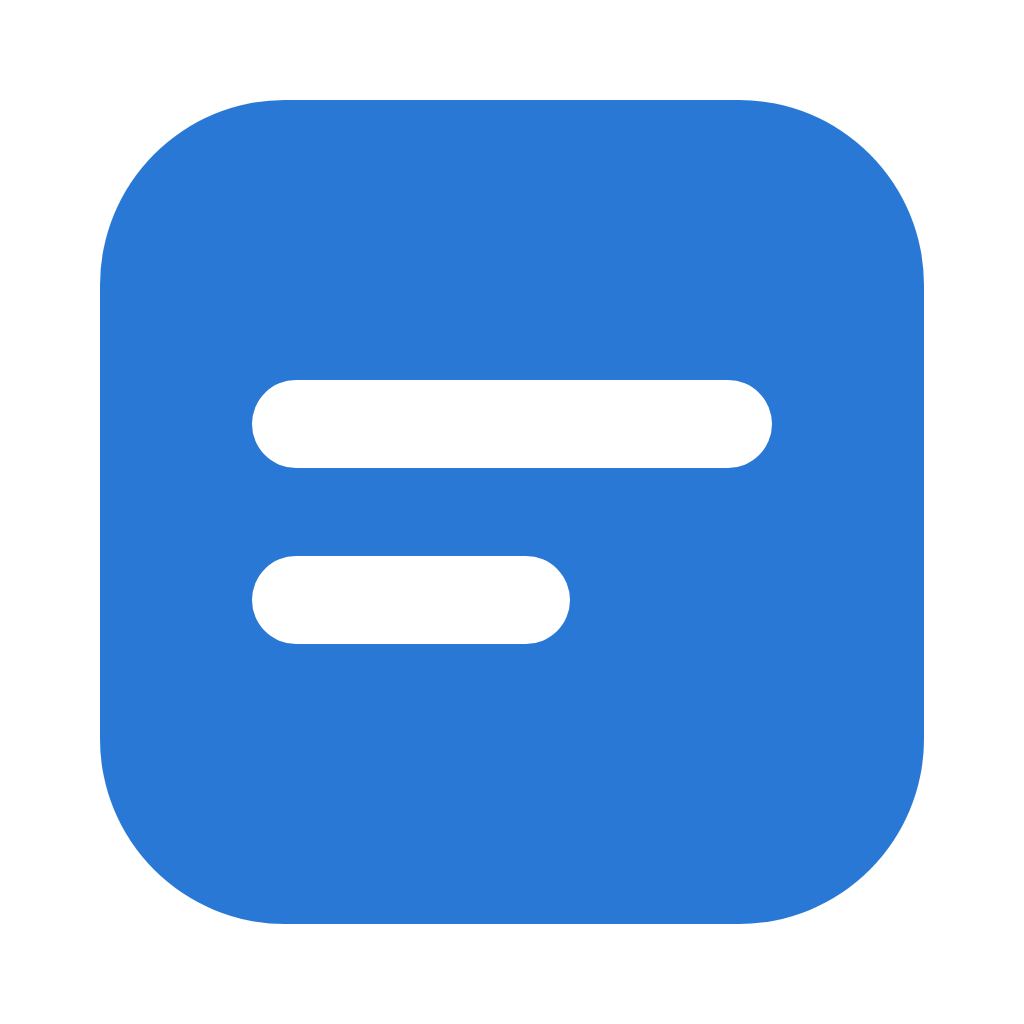
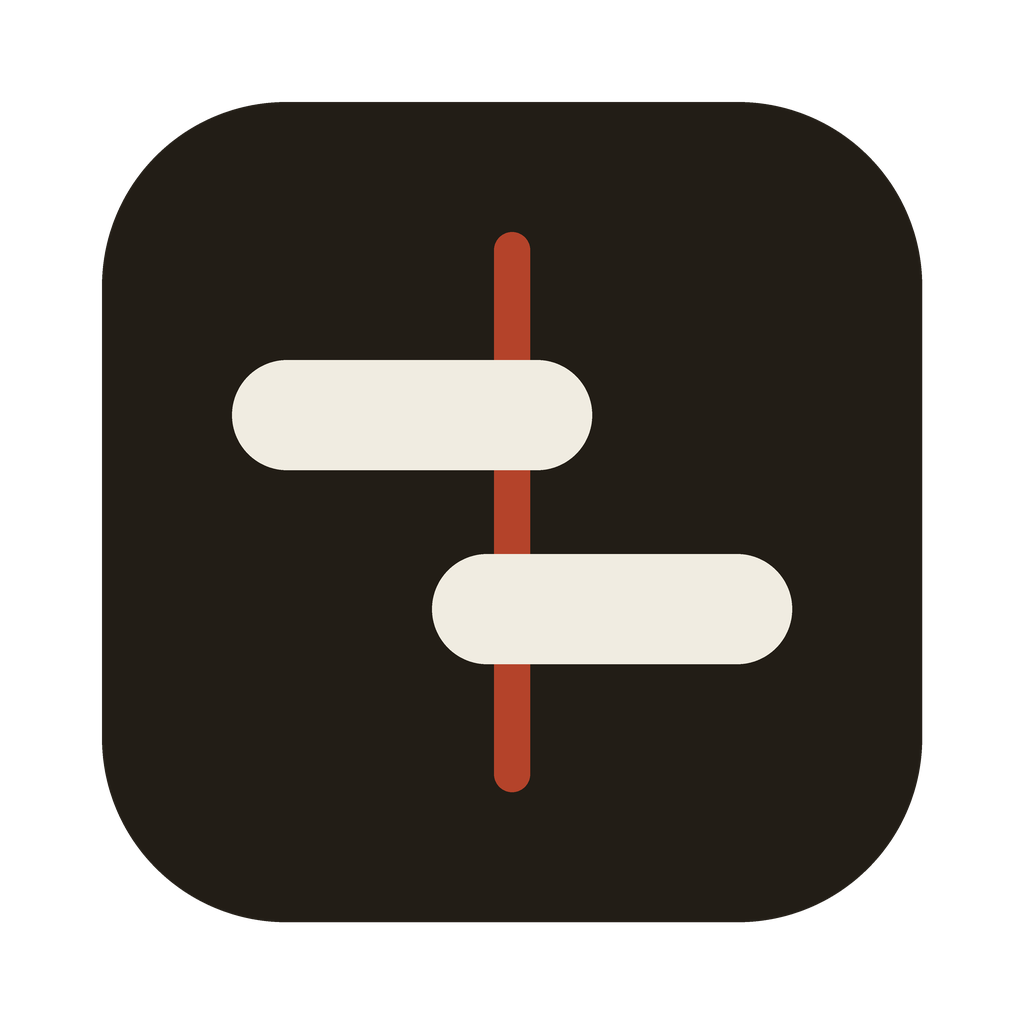
feat(desktop): carry the design system into the window and installer
The window opens on the design system's page ground instead of white, and
follows nativeTheme so the ground stays right when the system flips between
Daylight and Lamplight. On macOS the title bar is hidden and the app's own top
bar absorbs the traffic-light inset, which is what the system's app-patterns
guidance already specified; the bar is the drag handle and its controls stay
clickable.

The installer icon is redrawn from the Bureau mark: two offset bars crossed by
the shared time axis, in ink, paper and the one accent. It replaces the blue
placeholder and is used for the dmg, the icns and the NSIS installer.

diff --git a/src/desktop/main.ts b/src/desktop/main.ts
@@ -1,4 +1,4 @@
-import { app, BrowserWindow, ipcMain, safeStorage, shell } from 'electron';
+import { app, BrowserWindow, ipcMain, nativeTheme, safeStorage, shell } from 'electron';
 import electronUpdater from 'electron-updater';
 import { join } from 'node:path';
 import { fileURLToPath } from 'node:url';
@@ -113,6 +113,14 @@ function createWindow(): void {
     minHeight: 600,
     title: 'Bureau',
     show: false,
+    // The design system's page ground, so the window never flashes white
+    // before the UI paints. Lamplight gets its own value below.
+    backgroundColor: nativeTheme.shouldUseDarkColors ? '#14120f' : '#f0ece1',
+    // macOS hides the title bar and lets the app's own top bar absorb the
+    // traffic-light inset; see the design system's app-patterns.md.
+    ...(process.platform === 'darwin'
+      ? { titleBarStyle: 'hiddenInset' as const, trafficLightPosition: { x: 16, y: 18 } }
+      : {}),
     webPreferences: {
       preload: join(here, 'preload.cjs'),
       contextIsolation: true,
@@ -123,6 +131,10 @@ function createWindow(): void {
 
   // Bureau's own pages stay in the window; links to posts and services open in
   // the default browser.
+  nativeTheme.on('updated', () => {
+    window?.setBackgroundColor(nativeTheme.shouldUseDarkColors ? '#14120f' : '#f0ece1');
+  });
+
   window.webContents.setWindowOpenHandler(({ url }) => {
     if (/^https?:\/\//.test(url)) void shell.openExternal(url);
     return { action: 'deny' };
